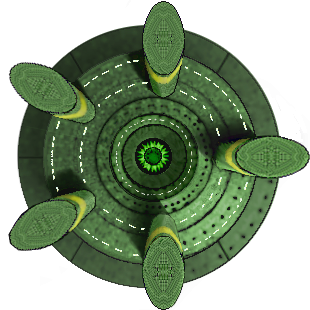
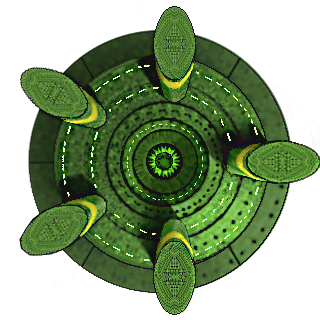
Ishtaka img upodates

diff --git a/source/server/model/ships/brakiri/ishtakaton.php b/source/server/model/ships/brakiri/ishtakaton.php
@@ -11,7 +11,7 @@ class Ishtakaton extends StarBaseSixSections
 		$this->phpclass = "Ishtakaton";
 		$this->shipClass = "Ishtakaton Techbase";
 		$this->imagePath = "img/ships/BrakiriIshtaka.png";
-		$this->canvasSize = 310;
+		$this->canvasSize = 320;
 		$this->fighters = array("normal" => 24);
 		$this->isd = 2256;
 		$this->notes = 'Im-Rehsa Technologies';//Corporation producing the design
